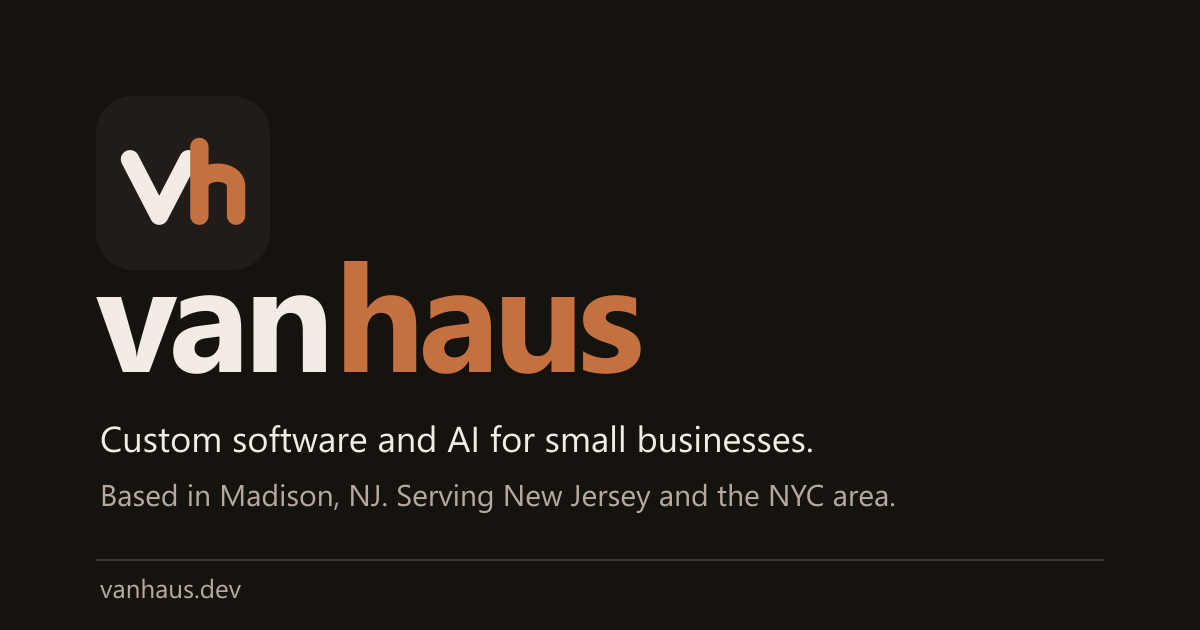
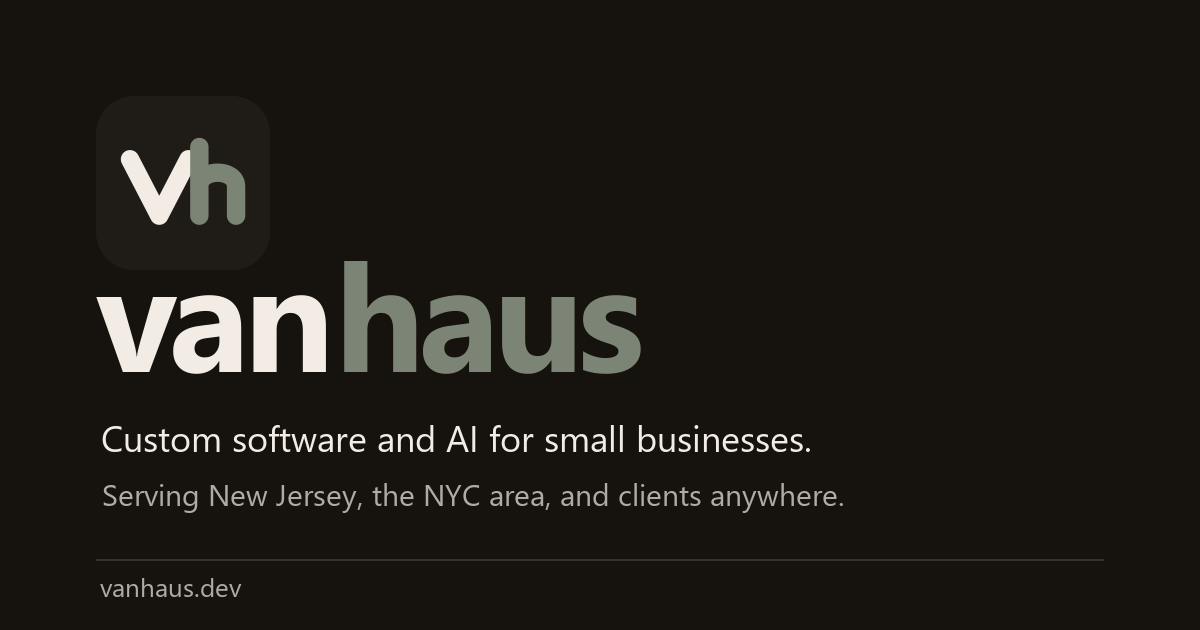
Switch the accent from copper to sage (#7c8575)
The accent and hover tokens are now sage, so buttons, the logo, links,
kickers, and demo highlights all follow. Button text stays dark, which
keeps 4.8:1 contrast. The SVG favicon, PNG and ICO icons, and the share
image are recolored, and the share image now says the company serves
New Jersey, the NYC area, and clients anywhere instead of Madison.

diff --git a/src/app/globals.css b/src/app/globals.css
@@ -1,7 +1,7 @@
 @import "tailwindcss";
 
 /* ---------------------------------------------------------------------------
-   VanHaus palette. Warm dark mode. Copper is the only accent.
+   VanHaus palette. Warm dark mode. Sage (#7c8575) is the only accent.
    --------------------------------------------------------------------------- */
 :root {
   --bg: #16130f;
@@ -9,10 +9,10 @@
   --border: #3a322b;
   --text: #f2ece4;
   --text-muted: #b5aaa0;
-  --accent: #c4703f;
-  --accent-hover: #db8a57;
+  --accent: #7c8575;
+  --accent-hover: #8a9383;
 
-  /* Text that sits on a copper background. Dark on copper passes AA; off-white on copper does not. */
+  /* Text that sits on an accent background. Dark on sage passes AA (4.8:1); off-white on sage does not (3.3:1). */
   --on-accent: #16130f;
 
   --radius: 16px;

diff --git a/src/components/demos/demo-ui.tsx b/src/components/demos/demo-ui.tsx
@@ -92,7 +92,7 @@ export function Field({
   );
 }
 
-/** A chip that lights up copper when selected. */
+/** A chip that lights up in the accent color when selected. */
 export function Chip({
   children,
   selected = false,
@@ -259,7 +259,7 @@ export function Bar({ value, className = "", tone = "accent" }: { value: number;
   );
 }
 
-/** Check mark in a copper circle. */
+/** Check mark in an accent circle. */
 export function CheckBadge({ show, className = "" }: { show: boolean; className?: string }) {
   return (
     <span

diff --git a/src/components/demos/ava-data.ts b/src/components/demos/ava-data.ts
@@ -8,7 +8,7 @@
  * - AVA_AUDIO_SRC: path under /public (for example "/audio/ava-sample.mp3") or null to run
  *   the demo on its internal clock with no sound.
  * - AVA_TRANSCRIPT: one entry per line of speech, with start/end in milliseconds that match
- *   the recording. "ai" lines are drawn in copper, "caller" lines in the muted tone.
+ *   the recording. "ai" lines are drawn in the accent color, "caller" lines in the muted tone.
  * - AVA_SUMMARY: the summary email that slides in when the call ends.
  */
 

diff --git a/src/components/demos/ava-demo.tsx b/src/components/demos/ava-demo.tsx
@@ -9,7 +9,7 @@ import { useDemoPlayer } from "./use-demo-player";
 
 /**
  * Shell for the AI receptionist demo. Audio player with a two-color waveform (caller in
- * the muted tone, Ava in copper), transcript lines that highlight in sync, and a summary
+ * the muted tone, Ava in the accent color), transcript lines that highlight in sync, and a summary
  * email that slides in when the call ends.
  *
  * With AVA_AUDIO_SRC set, the real <audio> element drives the clock. Without it, the demo

diff --git a/src/components/sections/hero.tsx b/src/components/sections/hero.tsx
@@ -3,7 +3,7 @@ import { FIRST_YEAR, PROJECT_COUNT } from "@/lib/constants";
 import { hero } from "@/lib/site-data";
 
 /**
- * A distinctive grotesk set very large across the full width, one hand-drawn copper
+ * A distinctive grotesk set very large across the full width, one hand-drawn accent
  * underline, and a plain facts column instead of imagery. Everything here is above the
  * fold, so it renders immediately with no scroll reveal.
  */

diff --git a/src/components/common/kicker.tsx b/src/components/common/kicker.tsx
@@ -1,4 +1,4 @@
-/** Small section label: a short copper rule and plain text. */
+/** Small section label: a short accent rule and plain text. */
 export function Kicker({ children, className = "" }: { children: string; className?: string }) {
   return (
     <p className={`flex items-center gap-3 text-[14px] text-muted ${className}`}>
